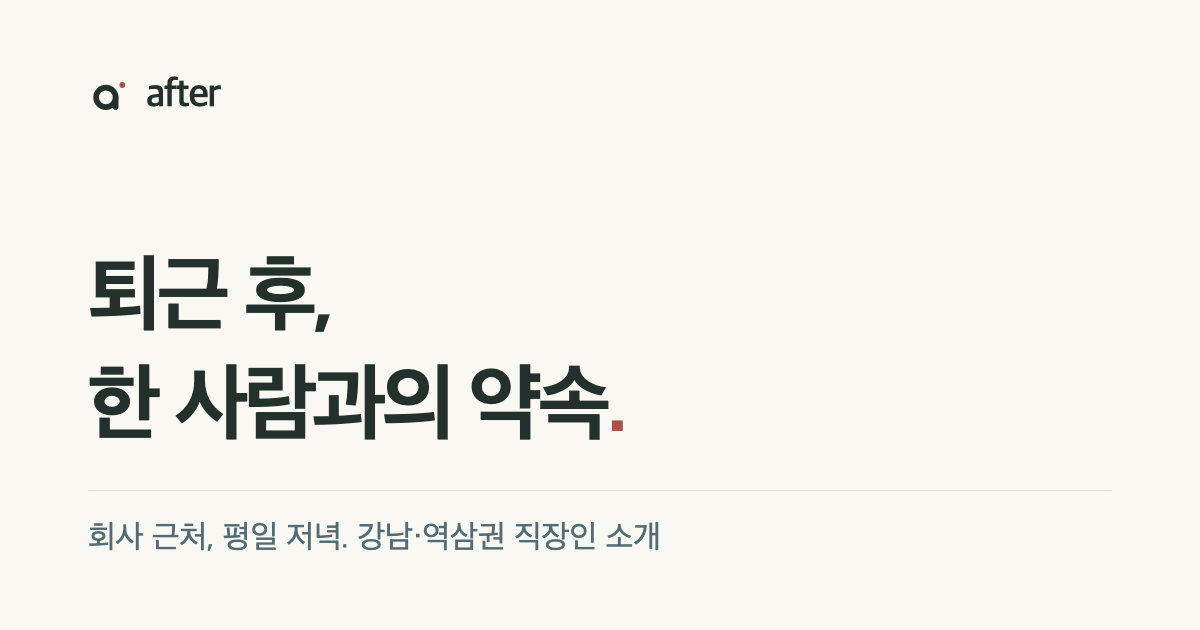
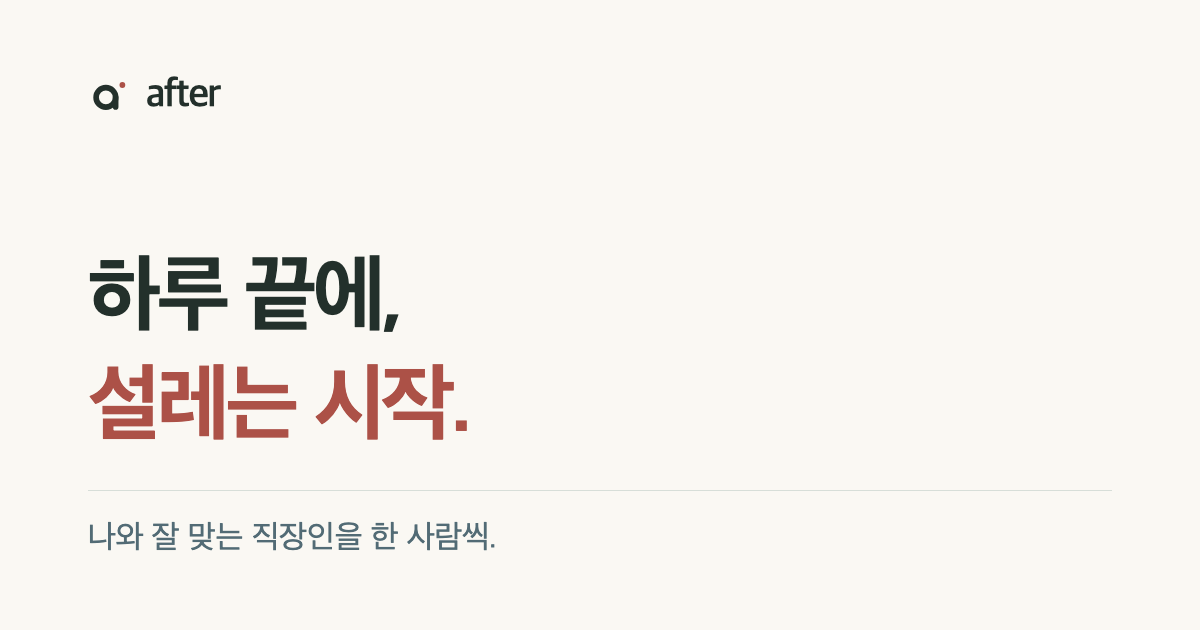
feat: 브랜드 첫인상과 직장 지역 기반 소개 정리 (#110)

Changed region(s): [[0.0617, 0.573, 0.5242, 0.7238], [0.0617, 0.3921, 0.3392, 0.5429], [0.0617, 0.8143, 0.555, 0.8746]]

diff --git a/src/routes/signup.tsx b/src/routes/signup.tsx
@@ -75,17 +75,10 @@ export const Route = createFileRoute("/signup")({
 });
 
 /*
-  권역이 하나뿐이면 고를 것이 없다. 2단계를 건너뛰고 그 권역으로 정한다
-  (2026-10-10 진단: 고를 수 있는 값 1개와 비활성 "준비 중" 3개를 보여 주던 단계).
-  권역을 하나 더 열면(brand.ts available) 단계가 저절로 돌아온다.
-*/
-const SKIP_HUB_STEP = OPEN_HUBS.length === 1;
-
-/*
   단계 id 와 보이는 순서는 다르다. id 는 저장·재개 코드가 오래 써 온 번호라 그대로
   두고, 순서는 여기 한 곳에서 정한다(리부팅 C, 2026-10-10).
 
-    성별 → (권역) → 회사 이메일 → 기본 정보 → 생활 정보 → 인터뷰 → 소개장 확인
+    성별 → 직장 지역 → 회사 이메일 → 기본 정보 → 생활 정보 → 인터뷰 → 소개장 확인
 
   생활 정보는 소개장 생성 전에 받는다. 성격을 추측하는 근거로 쓰지 않고,
   본인 답변과 충돌할 때 확인하는 자료로만 사용한다.
@@ -94,7 +87,7 @@ const Q_FIRST = 11;
 const CONDITIONS = 15;
 /** 휴대폰 인증(s54). 회사 메일 다음, 기본 정보 앞. 프로필 행이 생긴 뒤라야 저장할 곳이 있다. */
 const PHONE = 5;
-const ORDER = [1, ...(SKIP_HUB_STEP ? [] : [3]), 4, PHONE, 2, CONDITIONS, Q_FIRST];
+const ORDER = [1, 3, 4, PHONE, 2, CONDITIONS, Q_FIRST];
 const TOTAL = ORDER.length;
 /** 화면에 보이는 단계 번호. */
 const shown = (id: number) => ORDER.indexOf(id) + 1;
@@ -114,7 +107,8 @@ function Onboarding() {
   const { me, ready, refresh, setMe } = useMe();
   const [step, setStep] = useState(editing ? 2 : 1);
   const [gender, setGender] = useState<Gender | null>(null);
-  const [hubId, setHubId] = useState<string | null>(SKIP_HUB_STEP ? OPEN_HUBS[0].id : null);
+  // 모집 중인 지역이 하나여도 직장 위치를 추측해 자동 배정하지 않는다.
+  const [hubId, setHubId] = useState<string | null>(null);
   const [email, setEmail] = useState("");
   const [code, setCode] = useState("");
   const [codeSent, setCodeSent] = useState(false);
@@ -376,12 +370,7 @@ function Onboarding() {
           <ChoiceCard selected={gender === "male"} onClick={() => setGender("male")} title="남성" />
         </div>
         <div className="mt-8">
-          <Button
-            className="w-full"
-            size="lg"
-            disabled={!gender}
-            onClick={() => setStep(SKIP_HUB_STEP ? 4 : 3)}
-          >
+          <Button className="w-full" size="lg" disabled={!gender} onClick={() => setStep(3)}>
             다음
           </Button>
         </div>
@@ -565,22 +554,24 @@ function Onboarding() {
       <StepShell
         step={shown(3)}
         total={TOTAL}
-        eyebrow="활동 지역"
-        title="주로 어디서 만나시겠어요?"
-        description="같은 지역 안에서만 소개됩니다."
+        eyebrow="직장 지역"
+        title="직장은 어느 지역에 있나요?"
+        description="직장과 가까운 지역의 사람을 소개해 드려요."
       >
         <div className="grid gap-3">
-          {HUBS.map((hub) => (
+          {OPEN_HUBS.map((hub) => (
             <ChoiceCard
               key={hub.id}
               selected={hubId === hub.id}
-              disabled={!hub.available}
               onClick={() => setHubId(hub.id)}
               title={hub.label}
-              body={hub.available ? hub.detail : `${hub.detail} · 준비 중`}
+              body={hub.detail}
             />
           ))}
         </div>
+        {OPEN_HUBS.length < HUBS.length ? (
+          <p className="mt-4 text-sm text-muted-foreground">다른 지역은 차례로 준비하고 있어요.</p>
+        ) : null}
         <div className="mt-8 flex gap-2">
           <Button variant="ghost" onClick={() => setStep(1)}>
             이전
@@ -752,19 +743,20 @@ function Onboarding() {
         ) : null}
 
         <div className="mt-8 flex gap-2">
-          <Button variant="ghost" onClick={() => setStep(SKIP_HUB_STEP ? 1 : 3)}>
+          <Button variant="ghost" onClick={() => setStep(3)}>
             이전
           </Button>
           {emailVerified ? (
             <Button
               className="flex-1"
               size="lg"
-              disabled={pw.length < PASSWORD_MIN_LENGTH || !agreed || authBusy}
+              disabled={pw.length < PASSWORD_MIN_LENGTH || !agreed || authBusy || !gender || !hubId}
               onClick={async () => {
+                if (!gender || !hubId) return;
                 setAuthError(null);
                 setAuthBusy(true);
                 try {
-                  const created = await createSignupProfile(gender ?? "female", hubId ?? "gangnam");
+                  const created = await createSignupProfile(gender, hubId);
                   // 동의는 서버에 시각·버전으로 남긴다. 이게 없으면
                   // eligible_profiles 를 통과하지 못해 매칭 대상이 되지 않는다.
                   // 인증 직후 바로 건다. 여기서 실패해도 계정은 이미 만들어진

diff --git a/src/routes/index.tsx b/src/routes/index.tsx
@@ -1,8 +1,8 @@
 import { createFileRoute, Link, useNavigate } from "@tanstack/react-router";
 import { useEffect } from "react";
-import { ArrowRight, MapPin } from "lucide-react";
+import { ArrowRight } from "lucide-react";
 
-import { BRAND, COVERAGE_LABEL } from "@/lib/brand";
+import { BRAND } from "@/lib/brand";
 import { Logo } from "@/components/Logo";
 import { useMe } from "@/lib/me";
 import { Button } from "@/components/ui/button";
@@ -77,18 +77,15 @@ function Landing() {
 
       <main className="min-h-0 flex-1 overflow-y-auto overscroll-contain px-6">
         <section className="pt-7 pb-12">
-          <p className="flex items-center gap-1.5 text-xs font-medium text-muted-foreground">
-            <MapPin className="size-3.5" aria-hidden="true" />
-            {COVERAGE_LABEL} · 직장인 소개
-          </p>
-          <h1 className="mt-4 text-[clamp(1.875rem,8.3vw,2.25rem)] leading-[1.25] font-semibold tracking-[-0.045em] text-foreground">
-            퇴근 후,
-            <br />한 사람과의 <span className="text-primary-strong">약속.</span>
+          <h1 className="break-keep text-[clamp(1.875rem,8.3vw,2.25rem)] leading-[1.25] font-semibold tracking-[-0.045em] text-foreground">
+            하루 끝에,
+            <br />
+            <span className="text-primary-strong">설레는 시작.</span>
           </h1>
           <p className="mt-4 text-[0.9375rem] leading-relaxed text-muted-foreground">
-            끝없는 탐색 대신, 만나고 싶은 한 사람.
+            나와 잘 맞는 직장인을 한 사람씩.
             <br />
-            소개부터 약속 조율까지 애프터와 함께해요.
+            소개부터 만날 약속까지 함께해요.
           </p>
           <div className="mt-6 overflow-hidden rounded-[1.25rem] bg-ink">
             <img
@@ -212,7 +209,7 @@ function SampleIntro() {
       <p className="mt-4 text-2xl leading-[1.3] font-semibold text-foreground">
         지원 <span className="font-sans text-base font-medium text-muted-foreground">31</span>
       </p>
-      <p className="mt-0.5 text-sm text-muted-foreground">회계 · {COVERAGE_LABEL}</p>
+      <p className="mt-0.5 text-sm text-muted-foreground">회계</p>
       <blockquote className="mt-4 border-l-2 border-brand-blush pl-3.5">
         <p className="serif break-keep text-pretty text-lg leading-[1.45] text-foreground">
           퇴근하고 한강까지 뛰는 게 요즘 제일 좋아하는 시간이에요.

diff --git a/src/lib/meet.ts b/src/lib/meet.ts
@@ -1,5 +1,5 @@
 /** 만남 조율에 쓰이는 선택지 */
-import { HUBS, PRIMARY_HUB } from "@/lib/brand";
+import { HUBS } from "@/lib/brand";
 
 export type MeetPrefs = {
   /** 가능한 저녁 (ISO datetime) */
@@ -20,12 +20,11 @@ export type MeetPrefs = {
  * 강남 역만 나온다. 권역을 여는 스위치와 그 권역의 역이 같은 자리에 있어야
  * 그 사고가 안 난다.
  *
- * hubId 를 모르면(구 데이터·로딩 중) 첫 열린 권역으로 떨어진다. 빈 목록을 주면
- * 검색이 조용히 아무것도 안 찾는 화면이 되는데, 그건 고장과 구분이 안 된다.
+ * 회원의 권역을 모르면 역을 추천하지 않는다. 다른 지역을 임의로 대신하지 않는다.
  */
 /* hubId 는 DB 컬럼(text)에서 그대로 온다 — HubId 로 좁히면 호출부마다 캐스팅이 붙는다. */
 export function stationsFor(hubId: string | null | undefined): readonly string[] {
-  return (HUBS.find((h) => h.id === hubId) ?? PRIMARY_HUB).stations;
+  return HUBS.find((h) => h.id === hubId)?.stations ?? [];
 }
 
 export function searchStations(

diff --git a/src/lib/brand.ts b/src/lib/brand.ts
@@ -4,9 +4,9 @@ export const BRAND = {
   nameEn: "after",
   domain: "aftersunset.kr",
 
-  tagline: "퇴근 후, 한 사람과의 약속.",
+  tagline: "하루 끝에, 설레는 시작.",
   description:
-    "회사 이메일을 확인한 직장인을 한 사람씩 소개하고, 회사 근처에서 만날 약속을 정하도록 돕습니다.",
+    "나와 잘 맞는 직장인을 한 사람씩. 서로의 이야기를 알아가고, 만날 약속까지 애프터가 함께합니다.",
 } as const;
 
 /**
@@ -103,10 +103,6 @@ export type HubId = (typeof HUBS)[number]["id"];
 
 /** 지금 가입을 받는 권역. 하드코딩한 "강남·역삼권" 을 대신한다. */
 export const OPEN_HUBS = HUBS.filter((h) => h.available);
-/** 허브를 알 수 없을 때의 기본값(가입 첫 화면·표시용 폴백). */
-export const PRIMARY_HUB = OPEN_HUBS[0] ?? HUBS[0];
-/** 상태 문구용 — 권역이 둘 이상이면 "강남·역삼권 · 판교권" 으로 늘어난다. */
-export const COVERAGE_LABEL = OPEN_HUBS.map((h) => h.label).join(" · ");
 
 /**
  * 만남 티켓 가격 (D 확정: 30,000원).

diff --git a/src/routes/me.tsx b/src/routes/me.tsx
@@ -4,7 +4,7 @@ import { ArrowRight, Bell, CalendarDays, FileText, Receipt, Ticket, User } from 
 
 import { NotificationBell } from "@/components/app/NotificationBell";
 import { AppScreen } from "@/components/app/AppScreen";
-import { BRAND, HUBS, PRIMARY_HUB } from "@/lib/brand";
+import { BRAND, HUBS } from "@/lib/brand";
 import { myStats, paymentsEnabled, remainingCandidates, signOut, type MyStats } from "@/lib/api";
 import { useMe } from "@/lib/me";
 import { usePhotoUrl } from "@/lib/photo";
@@ -146,7 +146,7 @@ function MePage() {
               로 읽힌다. 쓸모가 없으면 지우는 편이 낫다.
             */}
             <p className="mt-0.5 truncate text-xs text-muted-foreground">
-              {hub?.label ?? PRIMARY_HUB.label}
+              {hub ? `직장 지역 · ${hub.label}` : "직장 지역 확인 필요"}
             </p>
           </div>
         </div>

diff --git a/src/routes/home.tsx b/src/routes/home.tsx
@@ -10,7 +10,7 @@ import { Button } from "@/components/ui/button";
 import { Switch } from "@/components/ui/switch";
 import { GuideNote } from "@/components/app/GuideNote";
 import { NoShowPrompt } from "@/components/app/NoShowPrompt";
-import { BRAND, HUBS, PRIMARY_HUB } from "@/lib/brand";
+import { BRAND, HUBS } from "@/lib/brand";
 import {
   homeStateV2,
   markMet,
@@ -222,7 +222,8 @@ function HomePage() {
   return (
     <AppScreen action={<NotificationBell />}>
       <p className="mt-5 text-xs font-medium text-muted-foreground">
-        {hub?.label ?? PRIMARY_HUB.label} · {me.name ? `${me.name}님` : "나의 애프터"}
+        {me.name ? `${me.name}님의 애프터` : "나의 애프터"}
+        {hub ? ` · ${hub.label}` : ""}
       </p>
       {/*
         예전에는 아랫줄을 브랜드 색으로 칠했다. 그런데 그 자리에 오는 문장은

diff --git a/src/routes/__root.tsx b/src/routes/__root.tsx
@@ -89,12 +89,12 @@ export const Route = createRootRouteWithContext<{ queryClient: QueryClient }>()(
           "width=device-width, initial-scale=1, viewport-fit=cover, interactive-widget=resizes-content",
       },
       { name: "theme-color", content: "#FAF8F3" },
-      { title: `${BRAND.name} — 퇴근 후, 한 사람과의 약속` },
+      { title: `${BRAND.name} — ${BRAND.tagline}` },
       {
         name: "description",
         content: BRAND.description,
       },
-      { property: "og:title", content: `${BRAND.name} — 퇴근 후, 한 사람과의 약속` },
+      { property: "og:title", content: `${BRAND.name} — ${BRAND.tagline}` },
       { property: "og:description", content: BRAND.description },
       { property: "og:site_name", content: BRAND.name },
       { name: "app-version", content: APP_VERSION },

diff --git a/brand/og-image.html b/brand/og-image.html
@@ -35,9 +35,9 @@
     after
   </div>
   <div>
-    <h1>퇴근 후,<br>한 사람과의 약속<span class="quote">.</span></h1>
+    <h1>하루 끝에,<br><span class="quote">설레는 시작.</span></h1>
     <div class="rule"></div>
-    <p>회사 근처, 평일 저녁. 강남·역삼권 직장인 소개</p>
+    <p>나와 잘 맞는 직장인을 한 사람씩.</p>
   </div>
 </body>
 </html>
